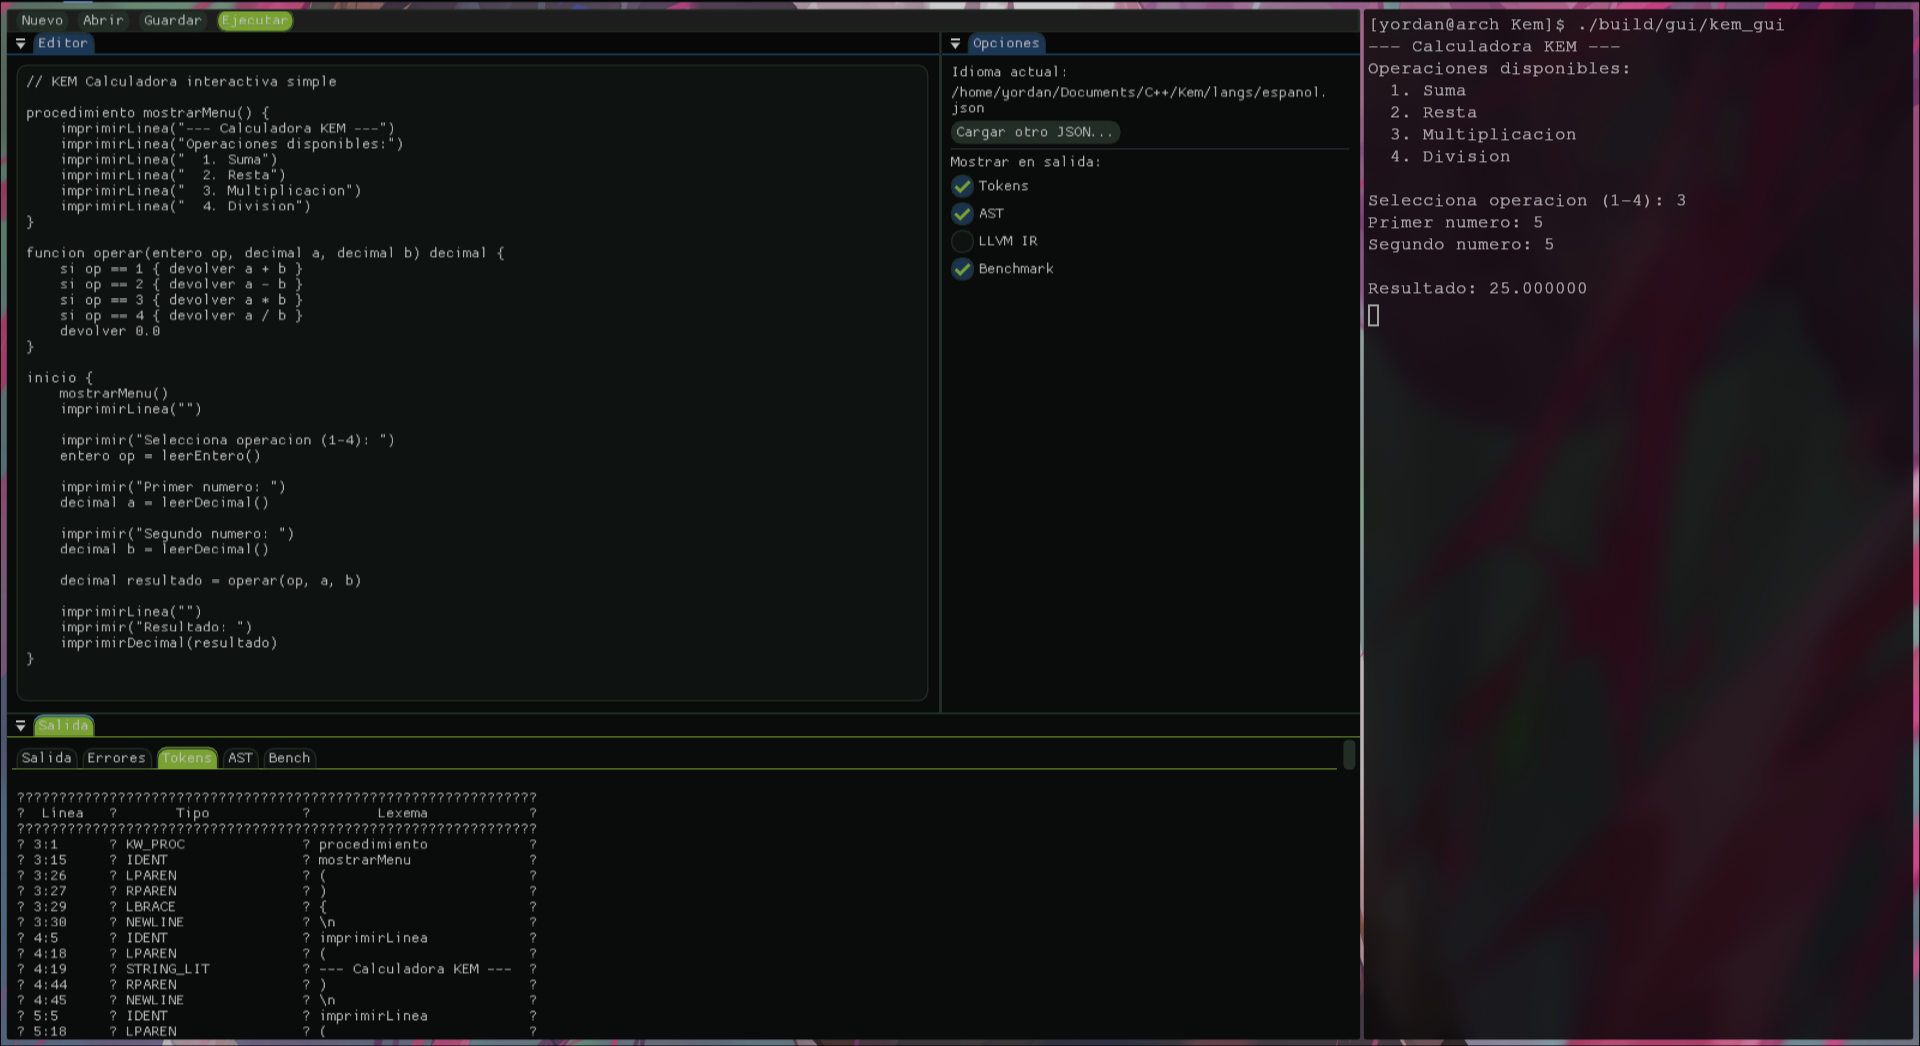
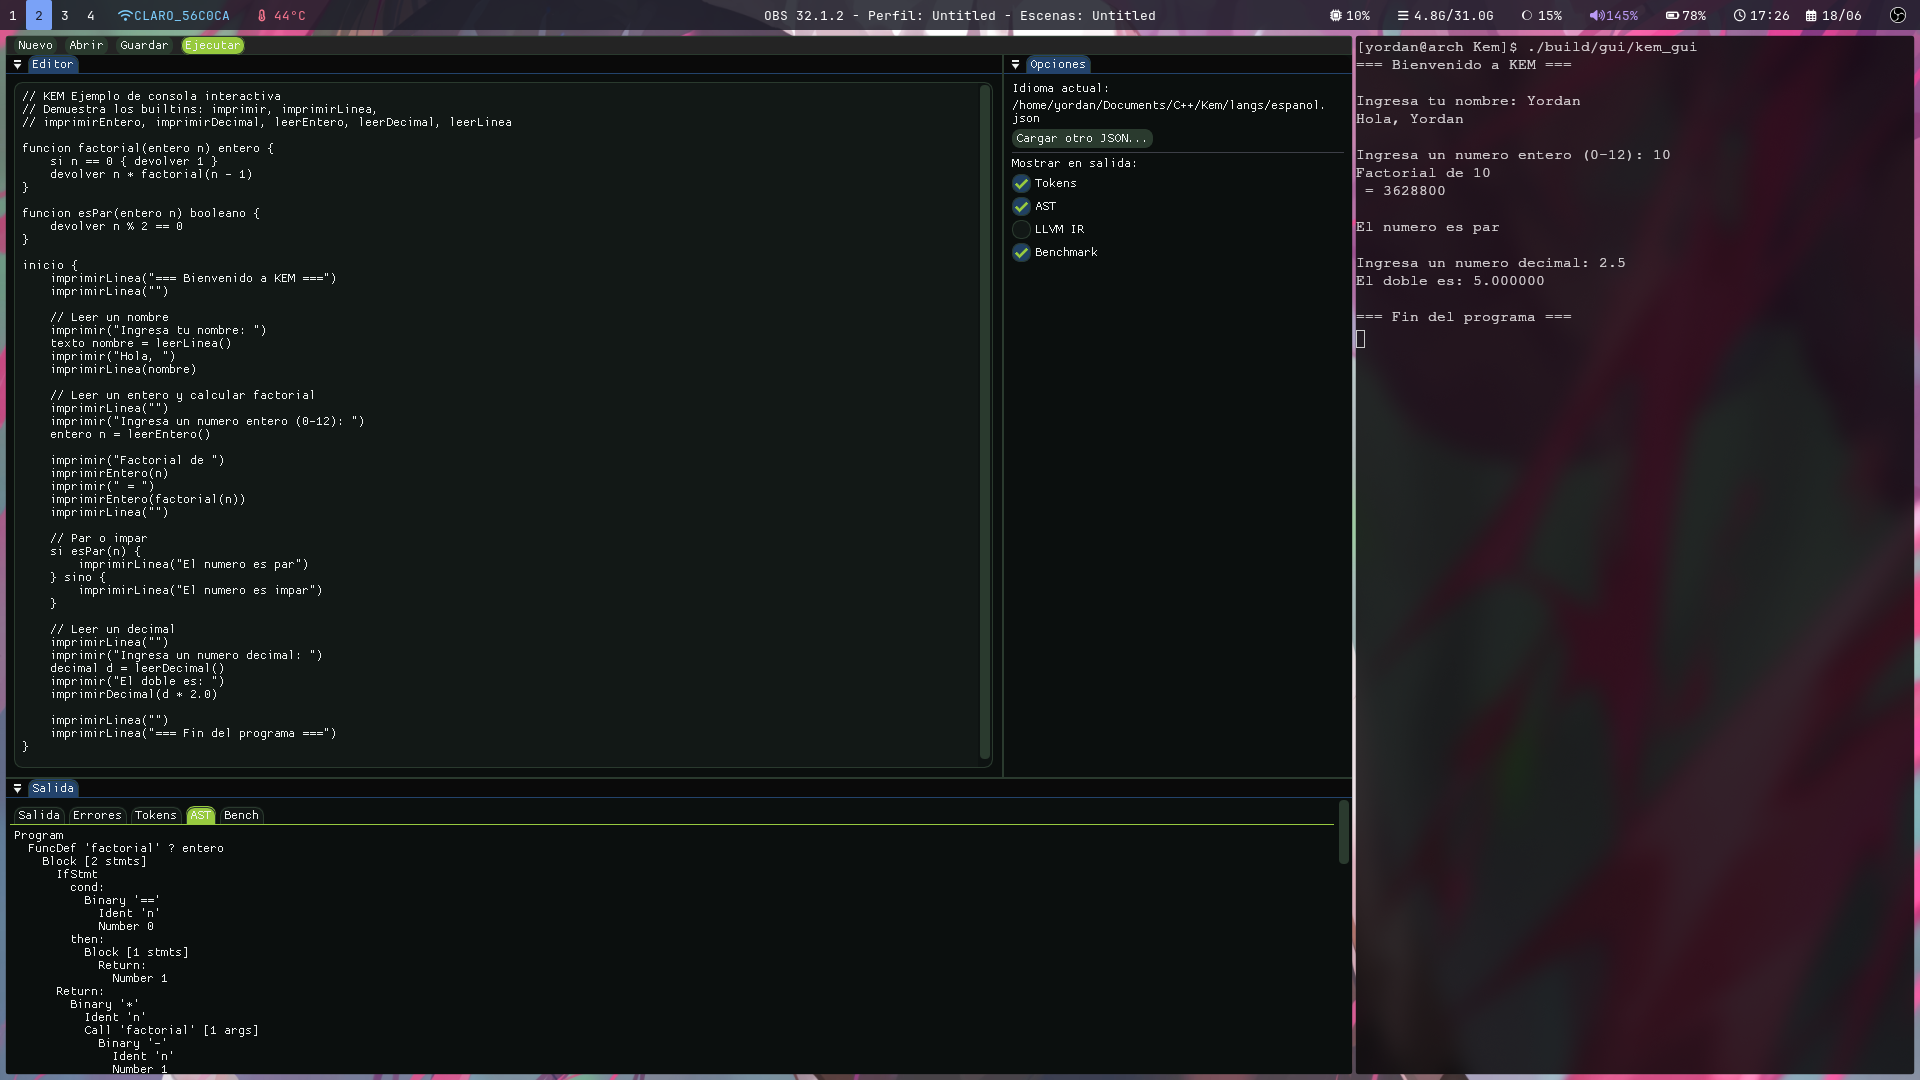
Update README.md by modifying badges and image links
Removed Docker Pulls badge and updated GUI image link formatting.

diff --git a/README.md b/README.md
@@ -1,8 +1,7 @@
 [![Docker Image Size](https://img.shields.io/docker/image-size/vyordan/kem?label=Tama%C3%B1o%20de%20la%20imagen)](https://hub.docker.com/r/vyordan/kem)
-[![Docker Pulls](https://img.shields.io/docker/pulls/vyordan/kem?label=Descargas)](https://hub.docker.com/r/vyordan/kem)
 
 <div align="center">
-  <img src="doc/xd (1).png" alt="KEM logo extendido" width="250"/>
+  <img src="doc/logoExtendido.png" alt="KEM logo extendido" width="250"/>
   
   **Un Lenguaje que habla tu Idioma**
 </div>
@@ -86,7 +85,7 @@ docker run --rm -v $(pwd)/mi_programa.kem:/programa.kem kem --emit-ir /programa.
 
 ## Editor gráfico KEM (GUI)
 
-![captura gui - ejecucion programa](doc/ide.png)
+[captura gui - ejecucion programa](doc/ide.png)
 
 La carpeta `gui/` contiene un editor de código integrado para programas KEM, construido con GLFW, ImGui (rama docking) y OpenGL.
 
